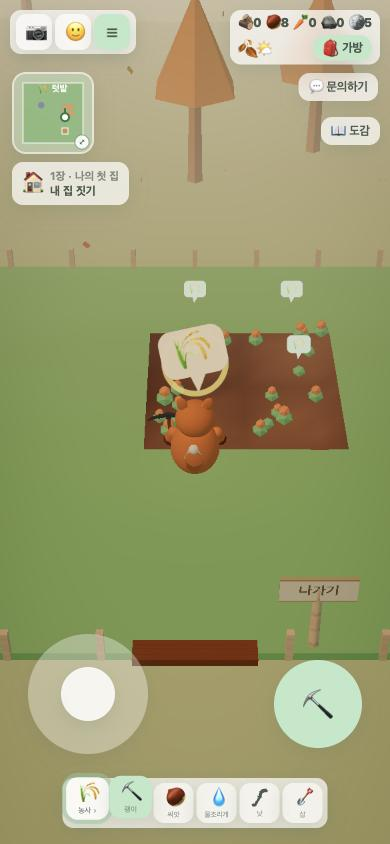
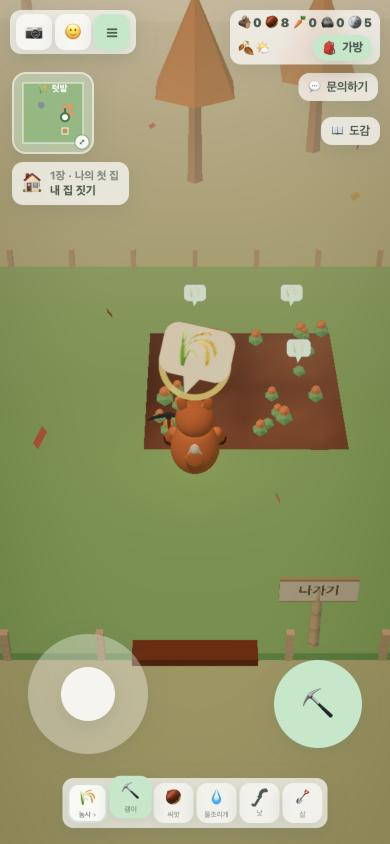
feat: E1 treatment intro sheet (3 cards, design B) — prereg amendment 1; PT captures updated
(cherry picked from commit 34cd418a39ed1623c0a2992f87fb83ef70c30a5e)

diff --git a/js/spaces/e1-start.js b/js/spaces/e1-start.js
@@ -15,15 +15,17 @@ import { animateBubble, makeRing, onTop } from '../bubble-fx.js';
 import { FARM } from '../data/places.js';
 import { CROP_TYPES } from '../data/tools.js';
 import {
-  E1_BUBBLE_EMOJI, E1_CROP, E1_PLOTS, E1_SPAWN, E1_STORE_KEY, E1_TUTORIAL_DELAY_MS,
-  decideE1, isPending, parseStored, shouldSeed,
+  E1_BUBBLE_EMOJI, E1_INTRO_BUTTONS, E1_CROP, E1_PLOTS, E1_SPAWN, E1_STORE_KEY, E1_TUTORIAL_DELAY_MS,
+  decideE1, e1IntroCards, isPending, parseStored, shouldSeed,
 } from '../exp-e1.js';
-import { clientId } from '../i18n.js';
+import { clientId, t } from '../i18n.js';
 import { PLATFORM } from '../platform.js';
 import { createPlot, syncFarmCrops, syncFarmSoil } from './farm.js';
 import { enterFarm, startVisitors } from './visitors.js';
 import * as THREE from 'three';
 
+const TOUCH = ('ontouchstart' in window) || navigator.maxTouchPoints > 0
+  || new URLSearchParams(location.search).has('touchsim');   // index.html TOUCH 와 같은 판정(둘째 카드 문구)
 let bubble = null, ring = null;   // 3D 말풍선 + 퍼지는 고리(첫 수확 전에만 있다)
 let active = false;   // 이번 세션에 등록됐는가 — 세이브의 e1 만으로 처치를 켜지 않는다(앱에서 웹 처치 세이브를 열 때, 리뷰 M5)
 const BUBBLE = { w: 0.85, h: 0.85, y: 1.35 };   // 🔍 방문객 말풍선과 같은 크기·높이
@@ -67,7 +69,7 @@ export function enrollE1(load) {
 export function applyE1(d) {
   if (!d?.enrolled) return;
   active = true;
-  if (!gameState.e1 || gameState.e1.arm !== d.arm) gameState.e1 = { arm: d.arm, seeded: false, harvested: false };
+  if (!gameState.e1 || gameState.e1.arm !== d.arm) gameState.e1 = { arm: d.arm, seeded: false, harvested: false, intro: false };
   if (shouldSeed(d, gameState.e1)) { seedField(); gameState.e1 = { ...gameState.e1, seeded: true }; }
   document.body.classList.toggle('e1-pending', isPending(gameState.e1));
 }
@@ -96,8 +98,48 @@ export function e1FirstScreen() {
   player.position.set(FARM.x + E1_SPAWN[0], 0, FARM.z + E1_SPAWN[1]);
   player.rotation.y = Math.PI;   // 북쪽(밭)을 본다 — enterFarm 과 같은 방향
   snapCamera();
-  showBubble();
+  if (!gameState.e1.intro) showIntro();
+  else showBubble();
   return true;
+}
+
+// ── 시작 안내 카드 3장(사전등록 개정 1) — 아래 시트라 뒤의 다 자란 밭이 계속 보인다 ──
+let introStep = -1;
+function showIntro() {
+  if (introStep >= 0) return;
+  const m = document.getElementById('e1intro-modal');
+  if (!m) { finishIntro(); return; }   // 옛 index.html 캐시 — 카드 없이 바로 말풍선
+  introStep = 0;
+  document.getElementById('e1-next').onclick = nextIntro;
+  window.addEventListener('keydown', introKey);
+  renderIntro();
+  m.classList.add('show');
+}
+function introKey(e) {
+  if (e.code === 'Space' || e.code === 'Enter') { e.preventDefault(); nextIntro(); }
+}
+function renderIntro() {
+  const cards = e1IntroCards(TOUCH), c = cards[introStep];
+  document.getElementById('e1-ico').textContent = c.ico;
+  document.getElementById('e1-title').textContent = t(c.title);
+  document.getElementById('e1-sub').textContent = c.sub ? t(c.sub) : '';
+  document.getElementById('e1-dots').innerHTML = cards.map((_, i) => `<span class="${i === introStep ? 'on' : ''}"></span>`).join('');
+  document.getElementById('e1-next').textContent = t(introStep === cards.length - 1 ? E1_INTRO_BUTTONS.start : E1_INTRO_BUTTONS.next);
+  trackEvent('e1_intro', { step: introStep + 1 });   // [GA4] 카드별 도달 — 어느 장에서 떠나는지
+}
+function nextIntro() {
+  if (introStep < 0) return;
+  if (introStep < e1IntroCards(TOUCH).length - 1) { introStep++; renderIntro(); return; }
+  finishIntro();
+}
+function finishIntro() {
+  introStep = -1;
+  window.removeEventListener('keydown', introKey);
+  gameState.e1 = { ...gameState.e1, intro: true };
+  trackEvent('e1_intro', { step: 4 });   // [GA4] 시작하기 = 카드 완료
+  // ⚠ Space 로 [시작하기] 를 누르면 같은 키가 게임에도 들어가 wantAction 이 선다 — 시트를 몇 프레임 더 두어
+  //    handleAction 이 모달 판정으로 그 액션을 삼키게 한 뒤 닫는다(안 그러면 닫히자마자 첫 수확이 저절로 된다)
+  setTimeout(() => { document.getElementById('e1intro-modal')?.classList.remove('show'); showBubble(); }, 150);
 }
 
 function showBubble() {

diff --git a/index.html b/index.html
@@ -945,6 +945,20 @@
   /* 문 입장/퇴장 프롬프트 */
   /* 🧪 E1 처치 — 첫 수확 전엔 도구바 "눌러서 도구 바꾸기" 칩을 숨긴다 — 첫 안내는 밭 위 말풍선 하나(js/spaces/e1-start.js) */
   body.e1-pending .pg-tip { display: none; }
+  /* 🧪 E1 처치 시작 안내 — 아래 시트(시안 B). id 가 -modal 로 끝나 anyModalOpen 이 뒤 게임 입력을 막는다 */
+  #e1intro-modal { position: fixed; left: 0; right: 0; bottom: 0; z-index: 32; display: none; justify-content: center; padding: 0 12px calc(16px + env(safe-area-inset-bottom)); }
+  #e1intro-modal.show { display: flex; }
+  .e1-sheet { width: min(520px, 100%); background: #fff; border-radius: 22px; box-shadow: 0 -8px 40px rgba(30,50,40,0.3); padding: 18px 20px 16px; color: var(--ink);
+    display: grid; grid-template-columns: auto 1fr; gap: 4px 14px; align-items: center; animation: floatUp .35s ease both; }
+  #e1-ico { font-size: 38px; grid-row: span 2; }
+  #e1-title { font-size: 17px; font-weight: 700; }
+  #e1-sub { opacity: .75; font-size: 14px; }
+  #e1-sub:empty { display: none; }
+  .e1-foot { grid-column: 1 / -1; display: flex; justify-content: space-between; align-items: center; margin-top: 10px; }
+  #e1-dots span { display: inline-block; width: 7px; height: 7px; border-radius: 50%; margin: 0 3px; background: rgba(0,0,0,0.15); }
+  #e1-dots span.on { background: #6fd08c; }
+  #e1-next { border: none; border-radius: 14px; padding: 12px 28px; background: var(--mint); color: var(--ink); font-weight: 700; font-size: 15px; cursor: pointer; box-shadow: var(--shadow); }
+  #e1-next:active { transform: scale(0.96); }
   #door-prompt { bottom: calc(150px + env(safe-area-inset-bottom)); left: 50%; transform: translateX(-50%); font-size: 14px; font-weight: 600; opacity: 0; transition: opacity .25s; pointer-events: none; white-space: nowrap; }
   /* 🪞 거울 주민 대화 박스(B안 2026-10-10) — 화면 아래 얼굴·이름·대사. 어둡게 하지 않는다(걸으며 읽기). 떠 있는 동안 같은 자리의 문 프롬프트는 숨김 */
   #mirror-talk { position: fixed; left: 50%; transform: translateX(-50%); bottom: calc(92px + env(safe-area-inset-bottom)); z-index: 7; display: none;
@@ -2534,6 +2548,12 @@
 
   <!-- 🪞 거울 주민 대화 박스(B안) — js/mirror/talk-box.js -->
   <div id="mirror-talk" role="dialog" aria-live="polite"><div id="mt-face"></div><div id="mt-name"></div><div id="mt-line"></div><div id="mt-next"></div></div>
+
+  <!-- 🧪 E1 처치 시작 안내(아래 시트) — 내용은 js/spaces/e1-start.js 가 채운다 -->
+  <div id="e1intro-modal" role="dialog" aria-modal="true" aria-labelledby="e1-title">
+    <div class="e1-sheet"><div id="e1-ico"></div><div id="e1-title"></div><div id="e1-sub"></div>
+      <div class="e1-foot"><div id="e1-dots"></div><button id="e1-next"></button></div></div>
+  </div>
 
   <!-- 신규 유저 튜토리얼 -->
   <div id="tutorial-modal">

diff --git a/js/exp-e1.js b/js/exp-e1.js
@@ -71,7 +71,7 @@ export function parseStored(raw) {
 // 세이브의 e1 필드 — 낯선 값은 버린다(세이브는 클라이언트 권위)
 export function sanitizeE1(v) {
   if (!v || typeof v !== 'object' || !isArm(v.arm)) return null;
-  return { arm: v.arm, seeded: !!v.seeded, harvested: !!v.harvested };
+  return { arm: v.arm, seeded: !!v.seeded, harvested: !!v.harvested, intro: !!v.intro };
 }
 
 // 처치 밭은 처치 무리의 신규에게, 한 번만
@@ -90,6 +90,17 @@ export function seedCoinValue(sellPrice) {
 }
 
 // 첫 안내 — 다 자란 밭 머리 위 월드 말풍선의 이모지 하나(월드 말풍선은 이모지만 — 🔍 방문객과 같은 문법)
+// 사전등록 개정 1(2026-10-12, 배포 전): 처치 첫 화면 앞에 안내 카드 3장(아래 시트, 시안 B · 문구 A).
+//   한국어 원문 = i18n 키(js/i18n-en.js). 둘째 장만 터치/PC 가 다르다.
+export const E1_INTRO_BUTTONS = { next: '다음', start: '시작하기 🌱' };
+export function e1IntroCards(touch) {
+  return [
+    { ico: '🌾', title: '여기는 당신의 텃밭이에요', sub: '당근이 벌써 다 자랐어요' },
+    { ico: '🕹', title: touch ? '왼쪽으로 걷고, 오른쪽 버튼으로 해요' : 'WASD로 걷고, Space·클릭으로 해요', sub: '' },
+    { ico: '🥕', title: '첫 수확을 해 볼까요?', sub: '거둔 작물로 마을을 키워요' },
+  ];
+}
+
 export const E1_BUBBLE_EMOJI = '🌾';   // 2026-10-12 사용자 선택(👆·🌾·🥕 비교, emoji-compare.html)
 
 // GA4 페이로드에 exp_arm 을 덧붙인 새 객체. 획득 이벤트만, 25개 한도를 넘기면 붙이지 않는다(다른 값을 밀어내지 않게)

diff --git a/js/i18n-en.js b/js/i18n-en.js
@@ -1038,6 +1038,12 @@ export const EN = {
   '1번으로 🌾농사 · 🏕야외도구 · ✋맨손을 바꿔요. 2~6번으로 도구를 골라요': 'Press 1 to cycle 🌾Farming · 🏕Outdoors · ✋Bare hands, then 2–6 to pick a tool',
   '1 번 키로 도구 바꾸기': 'Press 1 to swap tool sets',
   '눌러서 도구 바꾸기': 'Tap to swap tool sets',
+  // 🧪 E1 처치 시작 안내 카드(js/exp-e1.js e1IntroCards)
+  '여기는 당신의 텃밭이에요': 'This is your garden', '당근이 벌써 다 자랐어요': 'The carrots are already grown',
+  '왼쪽으로 걷고, 오른쪽 버튼으로 해요': 'Move with the left stick, act with the right button',
+  'WASD로 걷고, Space·클릭으로 해요': 'Move with WASD, act with Space or click',
+  '첫 수확을 해 볼까요?': 'Ready for your first harvest?', '거둔 작물로 마을을 키워요': 'Grow your village with your crops',
+  '다음': 'Next', '시작하기 🌱': 'Start 🌱',
   '⛏ 🌾농사 세트의 괭이(2)로 캐야 해요': '⛏ Mine with the Hoe (2) from the 🌾Farming set',
   '🎒 도구를 등에 멨어요. 하단 왼쪽 버튼(숫자 1)으로 다시 꺼낼 수 있어요': '🎒 Tools slung on your back. the bottom-left button (key 1) takes one out again',
   '✋ 맨손이에요 — 하단 왼쪽 버튼(숫자 1)으로 도구를 꺼내세요': '✋ Bare hands — use the bottom-left button (key 1) to take out a tool',

diff --git a/dev/active/e1-harvest-start/pt-assets/README.md b/dev/active/e1-harvest-start/pt-assets/README.md
@@ -36,27 +36,30 @@ Last Updated: 2026-10-12 · 브랜치 `feat/e1-harvest-start` (워크트리 `.cl
 
 ---
 
-## 2. `1-journey/` — 처치 무리 신규 여정 8장면 (모바일)
+## 2. `1-journey/` — 처치 무리 신규 여정 11장면 (모바일)
 
 | 파일 | 장면 | 대조와 차이 |
 |---|---|---|
 | `01-login.jpg` | 로그인 화면 | 같음 |
 | `02-character.jpg` | 캐릭터 고르기 | 같음 |
 | `03-prologue.jpg` | 프롤로그(도시 → 숲 초대) | 같음 |
-| `04-first-screen-ripe-field.jpg` | **텃밭 다 자란 당근 4칸 앞에서 시작 + 🌾 말풍선** | **처치만** (대조: 마을 한가운데 + 환영 모달) |
+| `03a-intro-card-1.jpg` | **안내 카드 ①** 🌾 여기는 당신의 텃밭이에요 (아래 시트, 뒤로 다 자란 밭이 보임) | **처치만** (개정 1) |
+| `03b-intro-card-2.jpg` | **안내 카드 ②** 🕹 왼쪽으로 걷고, 오른쪽 버튼으로 해요 | **처치만** |
+| `03c-intro-card-3.jpg` | **안내 카드 ③** 🥕 첫 수확을 해 볼까요? [시작하기 🌱] | **처치만** |
+| `04-first-screen-ripe-field.jpg` | [시작하기] 뒤 — **다 자란 당근 4칸 앞 + 🌾 말풍선** | **처치만** (대조: 마을 한가운데 + 환영 모달) |
 | `05-first-harvest.jpg` | 액션 한 번 = 수확(당근 +1·씨앗 +2), 과수원 의뢰·도감 등록 | 처치는 시작 10초 안에 일어남 |
 | `06-before-fix-modal-overlap.jpg` | ⚠ 수정 전: '새 집 색' 카드 뒤에 환영 모달이 겹침 | **고침**(다른 카드가 닫힌 뒤 열림) — "QA 로 잡은 문제" 슬라이드용 |
 | `07-welcome-modal.jpg` | 환영(튜토리얼) 모달 | 대조가 처음 보는 것과 같은 모달 |
 | `08-after-normal-flow.jpg` | 이후 평소 흐름(방문객 🔍·과수원 의뢰) | 여기부터 같음 |
 
-⚠ 04 장면 앞에 **안내 카드 3장이 추가될 예정**(4번 항목, 디자인 선택 대기) — 확정되면 여정을 다시 찍어 04 앞에 카드 장면을 넣어야 한다.
+03a~03c·04 는 안내 카드 구현 뒤 다시 찍은 장면(2026-10-12). 05~08 은 카드 추가 전 촬영이지만 수확 이후 흐름은 같다.
 
 ## 3. `2-emoji/` — 밭 위 말풍선 이모지 비교 → **🌾 선택**
 
 `tap-*`(👆) · `wheat-*`(🌾, **채택**) · `carrot-*`(🥕), 각각 `-pc`·`-mo`.
 선택 이유: 도구바 🌾농사·밭 수확 배지와 같은 게임 기호. 월드 말풍선은 글자 없이 이모지만(프로젝트 규칙).
 
-## 4. `3-onboarding-cards/` — 시작 안내 카드 시안 → **선택 대기**
+## 4. `3-onboarding-cards/` — 시작 안내 카드 시안 → **B(아래 시트) 채택·구현**
 
 사용자 피드백 "바로 밭으로 가는 건 불친절하다" → 처치에만 카드 3장 추가(사전등록 개정 1, 배포 전).
 문구(확정, A안):
@@ -67,10 +70,13 @@ Last Updated: 2026-10-12 · 브랜치 `feat/e1-harvest-start` (워크트리 `.cl
 | 파일 | 시안 | 메모 |
 |---|---|---|
 | `A-*.jpg` | 가운데 카드(기존 환영 모달 모양) | 밭을 가림 |
-| `B-*.jpg` | 아래 시트 | **추천** — 밭·🌾 가 같이 보임 |
+| `B-*.jpg` | 아래 시트 | **채택** — 밭·🌾 가 같이 보임 |
 | `C-*.jpg` | 위 카드(코치 모양) | 상단 HUD 가림 |
 
-(캡처는 카드 ①만. ②③ 은 같은 틀)
+(시안 캡처는 카드 ①만)
+
+구현본 캡처: `implemented-B-card1-pc.jpg` · `implemented-B-card3-pc.jpg`(PC, [시작하기 🌱]) · `implemented-B-card2-320px.jpg`(가장 좁은 폰 320px — 두 줄로 들어감).
+동작: 카드가 떠 있는 동안 뒤 게임 이동·액션 잠김 · PC 는 Space/Enter 로 넘김 · [시작하기] 를 Space 로 눌러도 수확이 저절로 되지 않음(확인) · GA4 `e1_intro`{step 1~3, 완료 4} 로 카드별 이탈을 본다.
 
 ## 5. `0-history/` — 폐기된 첫 시안 (과정 슬라이드용)
 
@@ -87,7 +93,8 @@ B 를 골랐지만 "월드 말풍선은 이모지만" 규칙에 따라 글자를
 | 2026-10-12 | 말풍선 = 이모지 🌾 (글자 없음) |
 | 2026-10-12 | 환영 모달은 첫 수확 뒤, 다른 카드가 닫힌 뒤 |
 | 2026-10-12 | 처치에 안내 카드 3장 추가 = **사전등록 개정 1** (배포 전, 데이터 없음) · 문구 A 확정 |
-| 대기 | 안내 카드 디자인(A/B/C) 선택 → 구현 → 여정 재촬영 → 배포 확인 → 배포일 = 실험 시작일 |
+| 2026-10-12 | 안내 카드 디자인 = **B 아래 시트** · 구현·실기 확인(PC·390·320) |
+| 대기 | 코드 리뷰 → 배포 확인 → 배포일 = 실험 시작일 |
 
 구현 메모: 배정 규칙 `js/exp-e1.js`, 게임 연결 `js/spaces/e1-start.js`, 테스트 `tests/exp-e1.test.mjs`·`tests/e1-wiring.test.mjs`(전체 2,500개 통과).
 코드 리뷰·실기에서 잡아 고친 것: 기존 계정이 옛 기기 기록으로 등록되던 문제 · 첫 저장 전에 나간 처치 신규가 밭을 못 받던 문제 · dev 세션 기록 누수 · 시작 위치가 수확 반경 밖이던 문제 · 첫 수확 때 모달 겹침.
